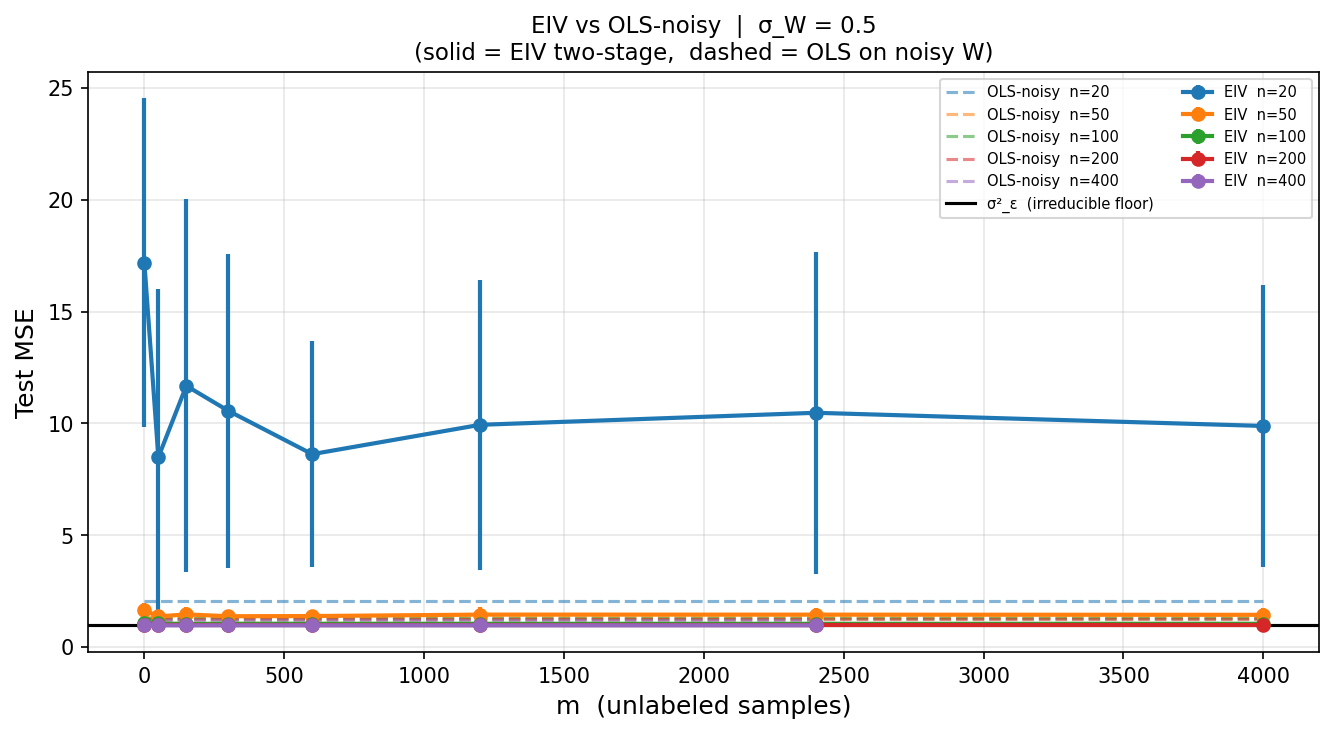
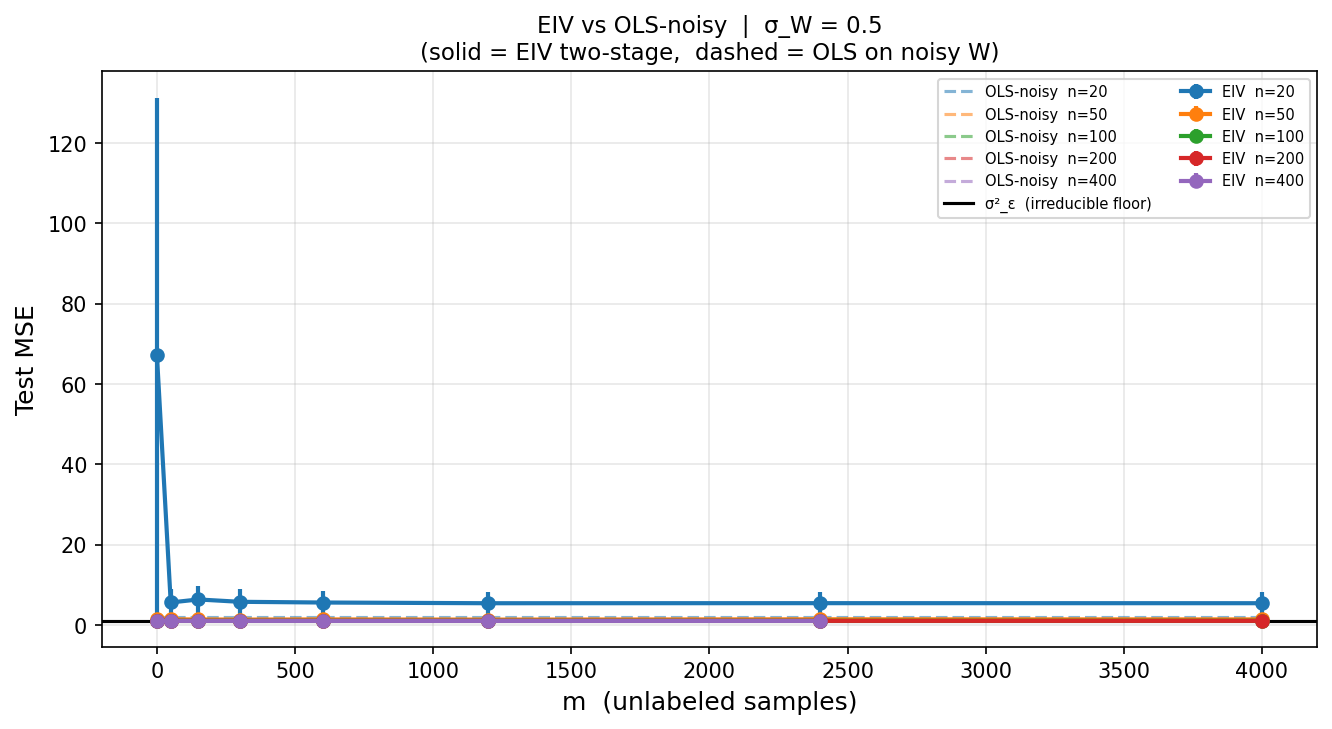
few changes

diff --git a/real_estate_experiment.py b/real_estate_experiment.py
@@ -352,6 +352,6 @@ for ax, (col, title, cmap_name) in zip(axes, [
 plt.tight_layout()
 plt.savefig("plot_heatmap.png", dpi=150, bbox_inches="tight")
 plt.close()
-print("Saved plot_heatmap.png")
+print("Saved_plot_heatmap.png")
 
 print("\nDone.")
